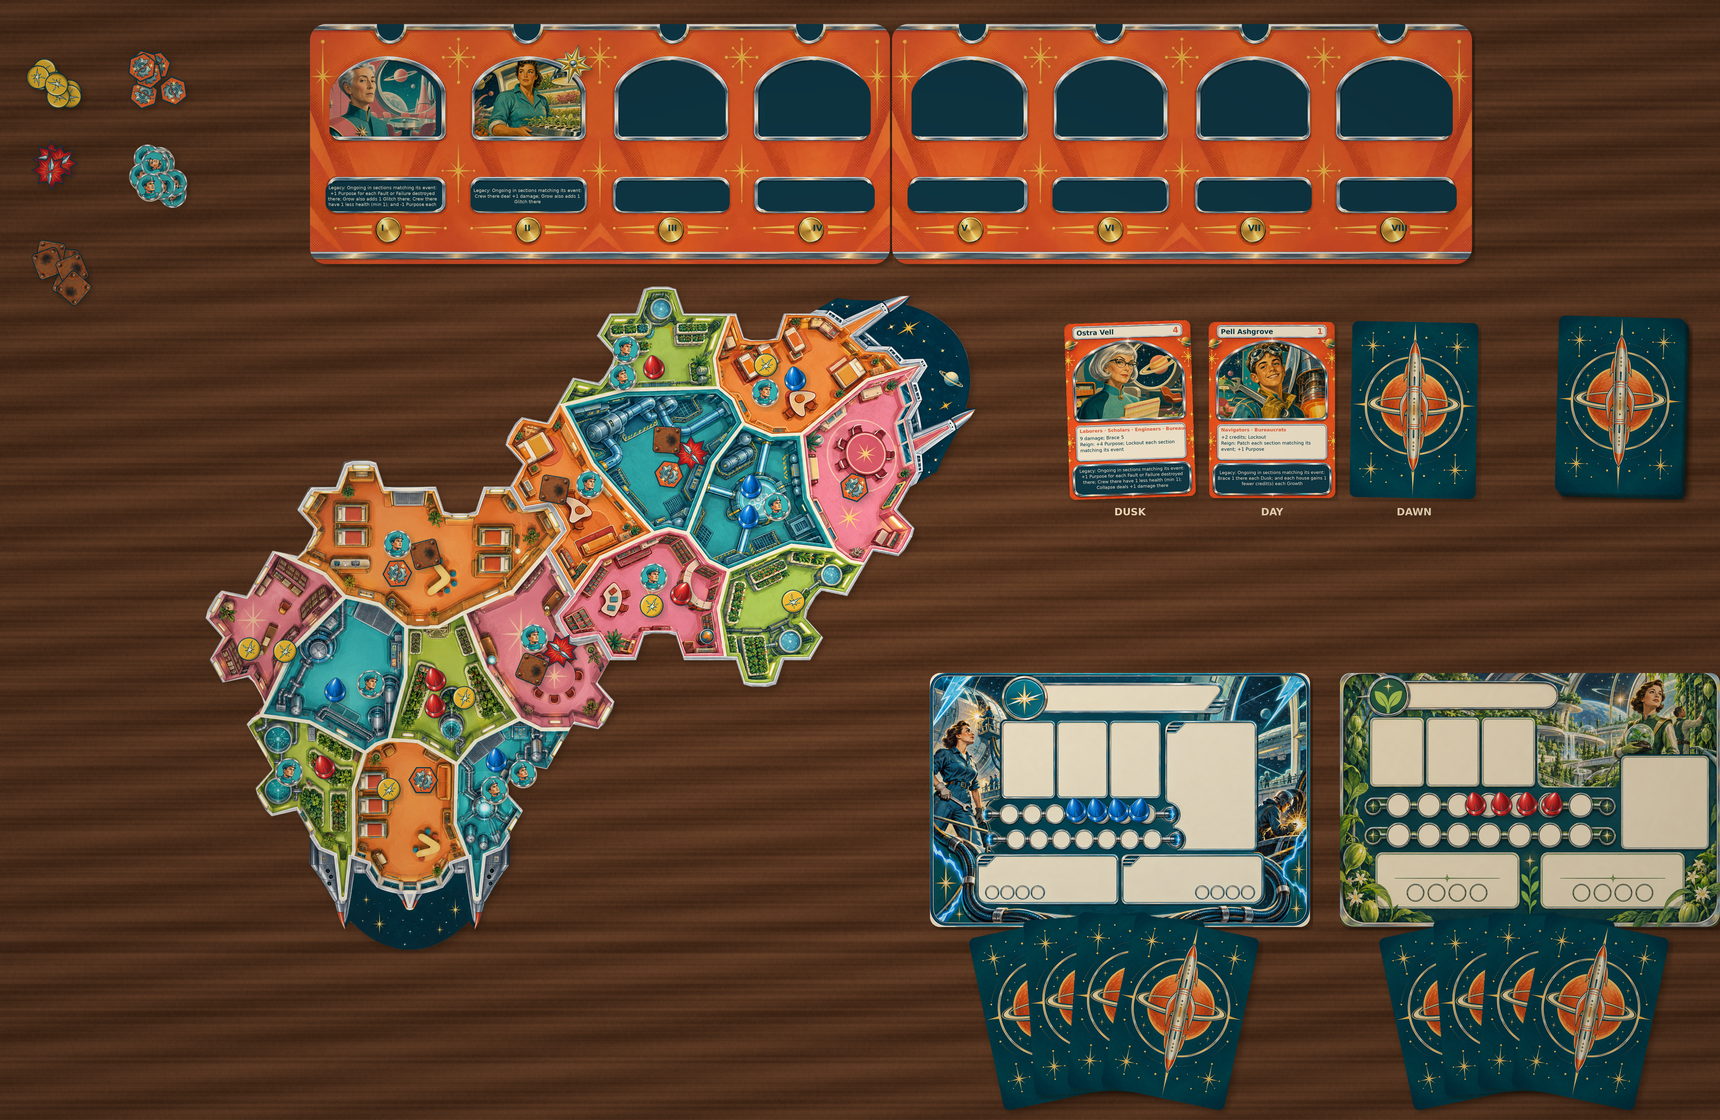
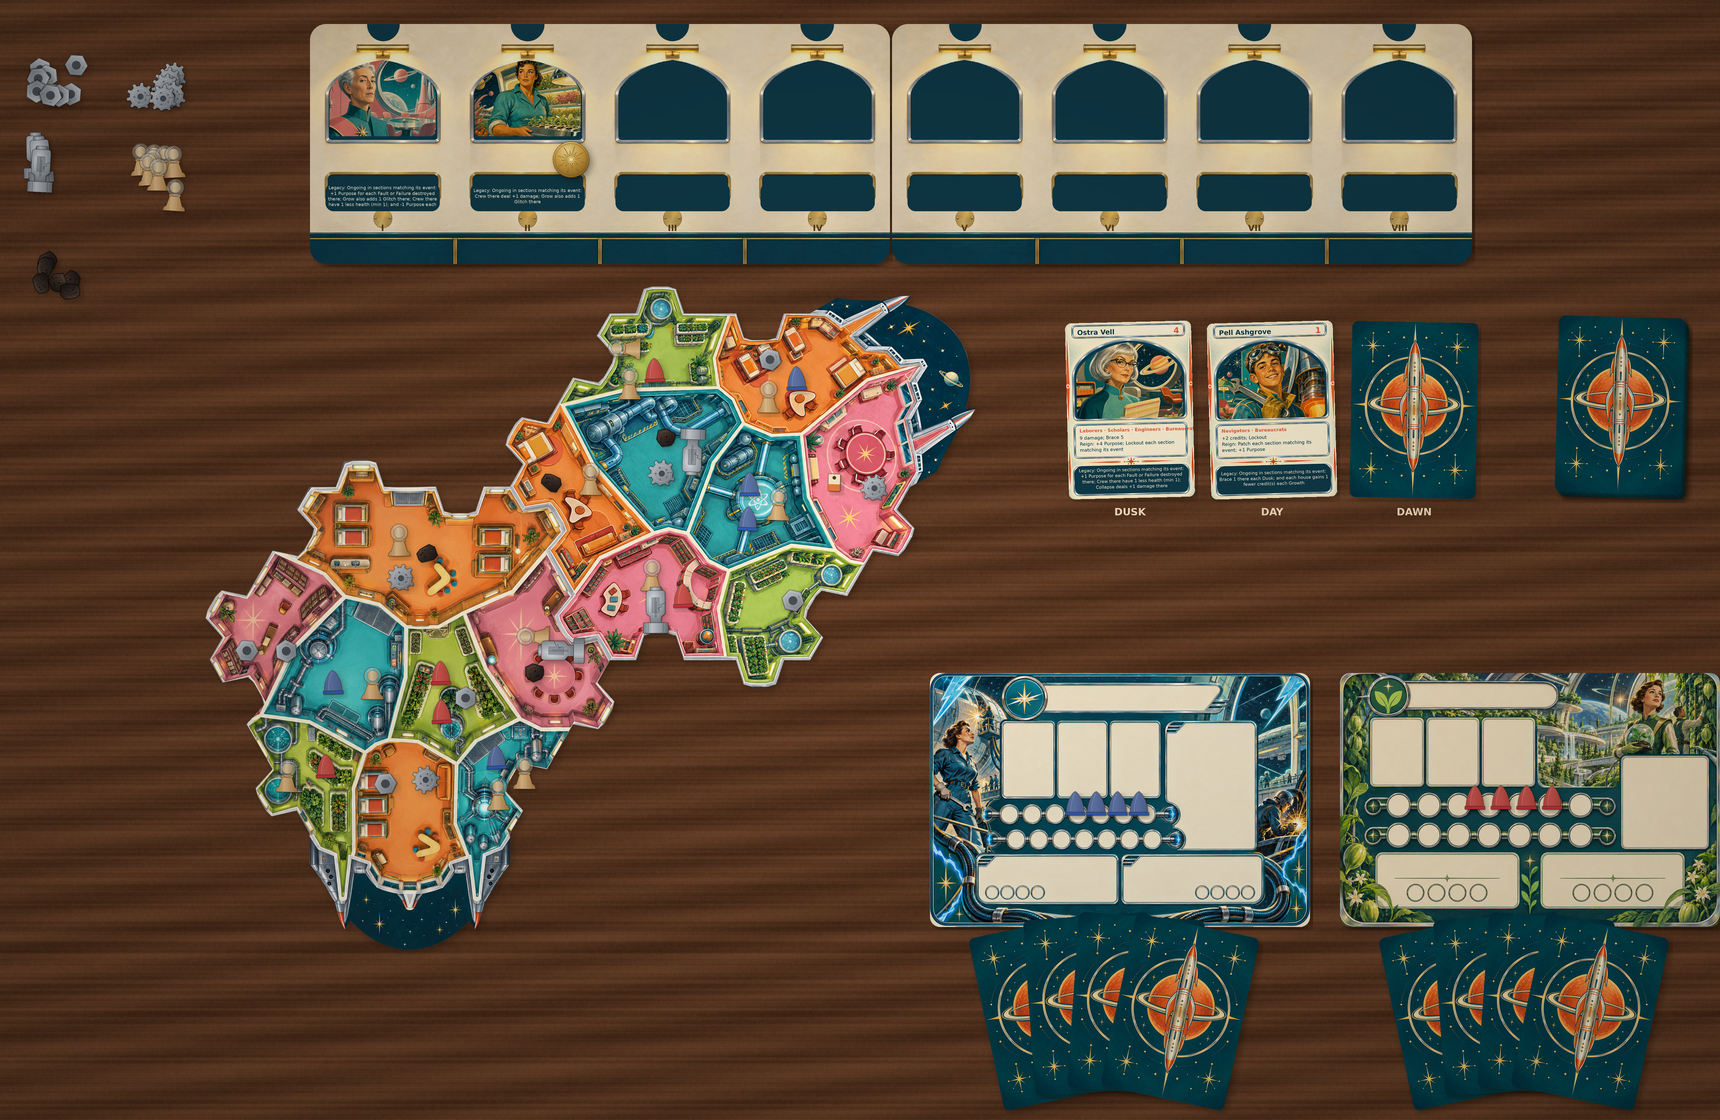
Mock-up rebuilt: museum Wall v3b, card frame v3b, v3 pieces (posture damage states) from tools/token_designs.py sprites
Claude-Session: https://claude.ai/code/session_014To8X9aHo3rSPP2S9tniN3

diff --git a/generation-ship/tools/table_mockup.py b/generation-ship/tools/table_mockup.py
@@ -113,9 +113,9 @@ def wrap(d, text, f, width):
 
 
 def people_card(person, portrait, name):
-    """A finished people card at 16 px/mm (no bleed), from card_frame_v2b_exact."""
+    """A finished people card at 16 px/mm (no bleed), from card_frame_v3b_exact."""
     s, b = rt.CARD_PX, rt.BLEED
-    im = Image.open(SRC / "card_frame_v2b_exact.png").convert("RGB")
+    im = Image.open(SRC / "card_frame_v3b_exact.png").convert("RGB")
     portrait_into(im, portrait, s, (b, b))
     im = im.crop((b * s, b * s, (b + rt.CARD_W) * s, (b + rt.CARD_H) * s))
     d = ImageDraw.Draw(im)
@@ -168,7 +168,7 @@ def card_back():
 def wall_panel(leaders, first_slot):
     """One Wall panel (8 px/mm) with retired leaders showing through its windows."""
     s = rt.WALL_PX
-    im = Image.open(SRC / "wall_panel_v2c_exact.png").convert("RGB")
+    im = Image.open(SRC / "wall_panel_v3b_exact.png").convert("RGB")
     d = ImageDraw.Draw(im)
     origins = rt.wall_slot_origins()
     numerals = ["I", "II", "III", "IV", "V", "VI", "VII", "VIII", "IX", "X", "XI", "XII"]
@@ -179,7 +179,7 @@ def wall_panel(leaders, first_slot):
             legacy_text(d, person, plaque_box(*o, s), s, rt.CREAM)
         cx = (o[0] + rt.CARD_W / 2) * s
         cy = (o[1] + rt.CARD_PLAQUE[1] + rt.PLAQUE_H + 7.5) * s
-        d.text((cx, cy), numerals[first_slot + i], fill=rt.TEAL, font=ImageFont.truetype(FONT_B, round(4.2 * s)), anchor="mm")
+        d.text((cx, cy), numerals[first_slot + i], fill="#5A3E14", font=ImageFont.truetype(FONT_B, round(4.2 * s)), anchor="mm")
     return round_corners(im, 8 * s)
 
 
@@ -249,11 +249,17 @@ def main():
     common = [p for p in people if p["tier"] == "Common"]
     table = table_top()
 
-    tok = {n: cutout(SRC / f"token_{n}.png") for n in ("glitch", "fault", "failure", "crew", "decay", "breakthrough")}
-    influence = split_row(cutout(SRC / "token_influence.png"))       # blue, red, gold, white
-    size = {"glitch": 12, "fault": 15, "failure": 19, "crew": 14, "decay": 14, "breakthrough": 20}
-    tok = {n: sized(t, size[n]) for n, t in tok.items()}
-    influence = [sized(t, 11) for t in influence]
+    # The v3 pieces (art/tokens/sprites, drawn by tools/token_designs.py at 10 px/mm): standing pieces
+    # seen from the side, flat ones from above; damage shown by posture.
+    sp = ROOT / "art" / "tokens" / "sprites"
+    if not sp.exists():
+        sys.exit("run tools/token_designs.py first (it draws art/tokens/sprites)")
+    tok = {}
+    for f in sorted(sp.glob("*.png")):
+        im = Image.open(f).convert("RGBA")
+        im = im.crop(im.getchannel("A").getbbox())
+        tok[f.stem] = im.resize((max(1, round(im.width * PX / 10)), max(1, round(im.height * PX / 10))), Image.LANCZOS)
+    influence = [tok[f"influence_{i}"] for i in range(4)]             # blue, red, gold, white
 
     # Ship: boards A and B in the "pair" layout; board units -> mm (radius 180 units = 100 mm).
     pair = data["layouts"]["pair"]
@@ -277,26 +283,30 @@ def main():
         return (ship_origin[0] + (px_ * math.cos(a) - py_ * math.sin(a) + x) * U,
                 ship_origin[1] + (px_ * math.sin(a) + py_ * math.cos(a) + y) * U)
 
-    # Mid-game spread: a few threats, crew, decay and house influence in the sections.
+    # Mid-game spread: threats (some damaged, by posture), Crew (one injured), Decay, influence, Isolate.
     state = {
-        "A1": ["crew", "crew", "inf0"], "A2": ["fault", "glitch"], "A3": ["inf1", "crew"],
-        "A4": ["failure", "decay", "crew"], "A5": ["glitch", "inf1", "inf1"], "A6": ["crew", "inf0"],
-        "A7": ["glitch", "glitch"], "A8": ["decay", "fault", "crew"],
-        "B1": ["inf0", "crew", "glitch"], "B2": ["fault"], "B3": ["inf1", "crew", "crew"],
-        "B4": ["failure", "fault", "decay"], "B5": ["crew", "inf0", "inf0"], "B6": ["glitch"],
-        "B7": ["crew", "decay"], "B8": ["inf1", "glitch", "crew"],
+        "A1": ["crew", "crew", "inf0"], "A2": ["fault_flat", "glitch"], "A3": ["inf1", "crew"],
+        "A4": ["failure_side", "decay", "crew_injured"], "A5": ["glitch", "inf1", "inf1"], "A6": ["crew", "inf0"],
+        "A7": ["glitch", "glitch"], "A8": ["decay_b", "fault", "crew"],
+        "B1": ["inf0", "crew", "glitch"], "B2": ["fault", "isolate"], "B3": ["inf1", "crew", "crew_injured"],
+        "B4": ["failure_up", "fault", "decay"], "B5": ["crew", "inf0", "inf0"], "B6": ["glitch"],
+        "B7": ["crew", "decay_b"], "B8": ["inf1", "failure", "crew"],
     }
+    flat = {"glitch", "fault_flat", "decay", "decay_b", "breakthrough"}
     for bid in ("A", "B"):
         board = next(b for b in data["boards"] if b["id"] == bid)
         for sec in board["sections"]:
             items = state.get(sec["id"], [])
             cx, cy = section_xy(sec, bid)
+            placed = []
             for i, it in enumerate(items):
                 ang = 2 * math.pi * i / max(1, len(items)) + rng.uniform(-0.3, 0.3)
-                rad = 0 if len(items) == 1 else 9
-                pos = (cx + rad * math.cos(ang), cy + rad * math.sin(ang))
+                rad = 0 if len(items) == 1 else 10
+                placed.append(((cx + rad * math.cos(ang), cy + rad * math.sin(ang)), it))
+            for pos, it in sorted(placed, key=lambda q: q[0][1]):           # back to front
                 piece = influence[int(it[3])] if it.startswith("inf") else tok[it]
-                drop(table, piece, pos, rng.uniform(-25, 25), shadow=0.5)
+                spin = rng.uniform(-40, 40) if it in flat else rng.uniform(-3, 3)
+                drop(table, piece, pos, spin, shadow=0.5)
 
     # The Wall of Leaders: two panels of the tri-fold unfolded along the top. Only four portraits exist
     # so far, so two leaders have retired (Ilka, Dace) and Ostra and Pell are in the conveyor.
@@ -305,7 +315,7 @@ def main():
         panel = wall_panel(leaders[first:first + 4], first)
         panel = panel.resize((mm(rt.WALL_W), mm(rt.WALL_H)), Image.LANCZOS)
         drop(table, panel, (300 + k * 291, 72), 0, shadow=0.8)
-    drop(table, tok["breakthrough"], (300 - 145 + 72.5 * 1.5 + 23, 32), 15, 0.7)   # on slot II's frame
+    drop(table, tok["breakthrough"], (300 - 145 + 72.5 * 1.5 + 22, 80), 15, 0.7)    # on slot II, between portrait and plaque
 
     # The conveyor: Dusk, Day and Dawn leaders, right of the ship.
     conv = [(remarkable[21], SRC / "ostra.png", "Ostra Vell"), (common[30], SRC / "pell.png", "Pell Ashgrove")]
@@ -328,17 +338,19 @@ def main():
         drop(table, hb, (hx, 400), 0, shadow=0.8)
         x0, dy, step = tracks[house]
         for j in range(3, 7):                                          # influence still on its track
-            drop(table, influence[inf], (hx + x0 + j * step, 400 + dy), rng.uniform(-20, 20), 0.5)
+            drop(table, influence[inf], (hx + x0 + j * step, 400 + dy - 3), 0, 0.5)
         for j in range(4):                                             # the hand, fanned below
             drop(table, back, (hx - 36 + j * 22, 500 + abs(j - 1.5) * 4), -12 + j * 8, shadow=0.7)
 
     # Decks and supply on the right edge and lower left.
     for j in range(6):
         drop(table, back, (812 - j * 0.4, 205 - j * 0.5), 1.5, shadow=0.4 if j else 0.9)
-    supply = [("glitch", 9), ("fault", 6), ("failure", 3), ("crew", 10), ("decay", 6)]
+    supply = [("glitch", 9), ("fault", 6), ("failure", 3), ("crew", 8), ("decay", 6)]
     for i, (n, k) in enumerate(supply):
-        for j in range(k):
-            drop(table, tok[n], (28 + (i % 2) * 52 + rng.uniform(-9, 9), 40 + (i // 2) * 48 + rng.uniform(-9, 9)), rng.uniform(0, 360), 0.5)
+        heap = sorted(((28 + (i % 2) * 52 + rng.uniform(-11, 11), 40 + (i // 2) * 48 + rng.uniform(-10, 10)) for _ in range(k)), key=lambda q: q[1])
+        for j, pos in enumerate(heap):
+            name = n if n != "decay" else ("decay", "decay_b")[j % 2]
+            drop(table, tok[name], pos, rng.uniform(0, 360) if name in flat else rng.uniform(-4, 4), 0.5)
 
     final = light(table)
     final.save(OUT / "retro_table_midgame.png", optimize=True)

diff --git a/generation-ship/tools/token_designs.py b/generation-ship/tools/token_designs.py
@@ -16,6 +16,7 @@ undamaged one standing upright (damage does not carry over). Isolate is a wooden
 The sheet shows each piece from the side and from above in every state, a black-silhouette test, and
 the pieces on the four section colours. Concept only: the numbers are starting points for a sculptor.
 """
+import json
 import math
 import random
 import subprocess
@@ -424,8 +425,41 @@ def sheet():
     return "\n".join(o)
 
 
+# --- sprites for the table mock-up: one transparent PNG per piece and state, at SCALE px per mm --
+def sprite_svgs():
+    """name -> SVG body: standing pieces seen from the side (ground at y 260), flat ones from above."""
+    g = 260
+    s = {"glitch": glitch_top(150, 150), "fault": fault_side(150, g), "fault_flat": fault_top(150, 150, damage=1),
+         "failure": failure_side(150, g), "failure_side": failure_side(150, g, damage=1), "failure_up": failure_side(150, g, damage=2),
+         "crew": crew_side(150, g), "crew_injured": crew_injured(150, g), "decay": decay_lump(150, 150, 4),
+         "decay_b": decay_lump(150, 150, 9), "breakthrough": breakthrough_coin(150, 150), "isolate": isolate_tag(150, 150, 0)}
+    for i, c in enumerate(HOUSE):
+        s[f"influence_{i}"] = influence_side(150, g, c)
+    return s
+
+
+def export_sprites():
+    """Write art/tokens/sprites/<name>.png (transparent, cropped later by the mock-up)."""
+    d = OUT / "sprites"
+    d.mkdir(parents=True, exist_ok=True)
+    jobs = []
+    for name, body in sprite_svgs().items():
+        f = d / f"{name}.svg"
+        f.write_text(f'<svg xmlns="http://www.w3.org/2000/svg" width="300" height="300" viewBox="0 0 300 300">{defs()}{body}</svg>')
+        jobs.append((str(f), str(d / f"{name}.png")))
+    js = ("const {chromium}=require('playwright');(async()=>{const b=await chromium.launch();"
+          "const p=await b.newPage({viewport:{width:300,height:300},deviceScaleFactor:1});"
+          f"for (const [s,o] of {json.dumps(jobs)}){{await p.goto('file://'+s);await p.screenshot({{path:o,omitBackground:true}});}}"
+          "await b.close();})();")
+    subprocess.run(["node", "-e", js], check=True)
+    for svg, _ in jobs:
+        Path(svg).unlink()
+    return d
+
+
 def main():
     OUT.mkdir(parents=True, exist_ok=True)
+    print("sprites in", export_sprites().relative_to(ROOT))
     svg = OUT / "token_sheet.svg"
     svg.write_text(sheet())
     png = OUT / "token_sheet.png"
